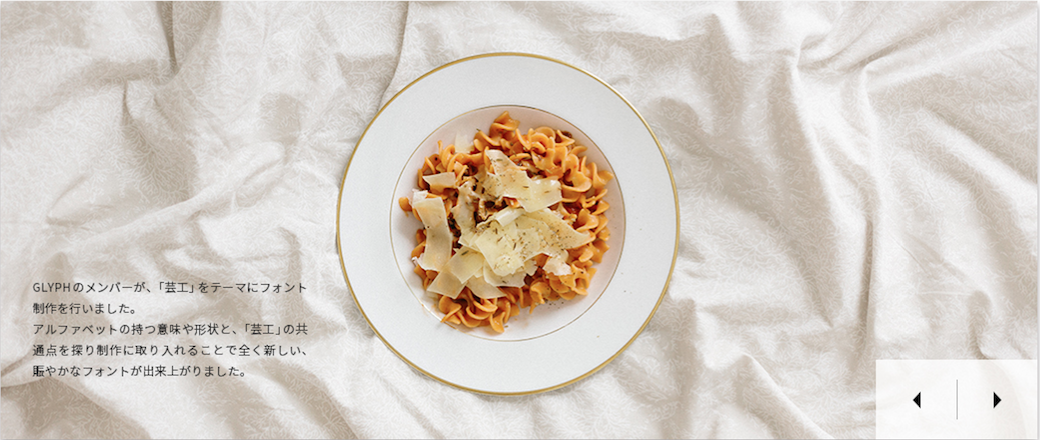
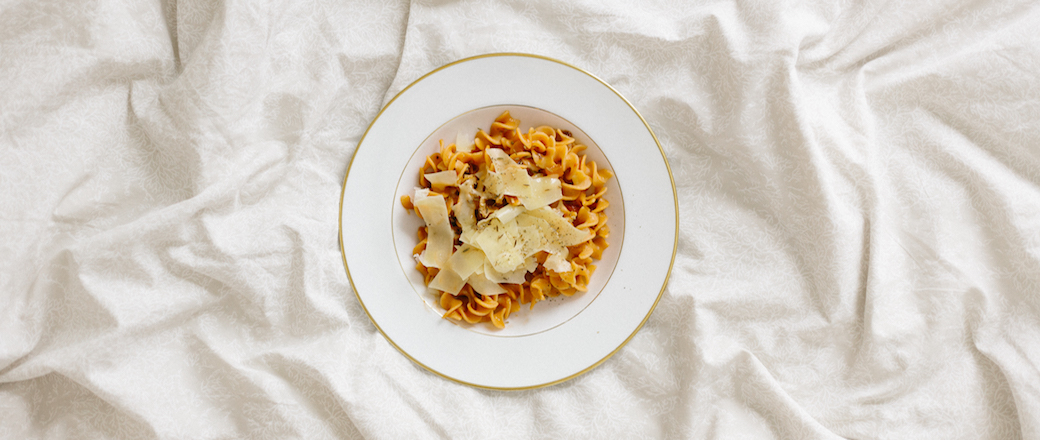
swiperできた

diff --git a/app/source/scss/_common.scss b/app/source/scss/_common.scss
@@ -8,7 +8,7 @@ header {
 	padding: 26px 0;
 	h1 {
 		img {
-			width: 200px;
+			width: 180px;
 			height: auto;
 		}
 	}
@@ -19,7 +19,7 @@ header {
 		li {
 			display: inline-block;
 			padding: 0 0 0 20px;
-			font-size: 0.9em;
+			font-size: 0.85em;
 			letter-spacing: 0.08em;
 		}
 		li + li {
@@ -30,18 +30,51 @@ header {
 }
 
 #contents {
-	.work-list {
-		margin: 10px 0 0;
-		font-size: 0.80em;
-		letter-spacing: 0.08em;
-		li {
-			display: inline-block;
-			width: 252px;
-			margin: 0 0 10px 0;
-			color: rgb(153,153,153);
-			a {
-				color: rgb(153,153,153);
-			}
+	.swiper-slide {
+		position: relative;
+		.swiper-ttl {
+			position: absolute;
+			top: 32%;
+			left: 40px;
+			color: #000;
+			font-size: 2.1em;
+			font-weight: bold;
+			letter-spacing: 0.1em;
+		}
+		.swiper-name {
+			position: absolute;
+			top: 40%;
+			left: 40px;
+			color: #000;
+			font-size: 0.9em;
+		}
+		.swiper-comment {
+			position: absolute;
+			left: 40px;
+			bottom: 50px;
+			width: 280px;
+			color: #000;
+			font-size: 0.8em;
+			line-height: 1.6em;
+			letter-spacing: 0.1em;
 		}
 	}
+	.swiper-pagination {
+		font-size: 0.88em;
+		letter-spacing: 0.1em;
+	}
+	// .work-list {
+	// 	margin: 10px 0 0;
+	// 	font-size: 0.80em;
+	// 	letter-spacing: 0.08em;
+	// 	li {
+	// 		display: inline-block;
+	// 		width: 252px;
+	// 		margin: 0 0 10px 0;
+	// 		color: rgb(153,153,153);
+	// 		a {
+	// 			color: rgb(153,153,153);
+	// 		}
+	// 	}
+	// }
 }

diff --git a/app/source/scss/_setting.scss b/app/source/scss/_setting.scss
@@ -3,7 +3,7 @@ $font-smoothing: antialiased;
 //auto,optimizeSpeed,optimizeLegibility,geometricPrecision
 $text-rendering: auto;
 $base-font-size: 15px;
-$base-font-family: 'Questrial', 'ヒラギノ角ゴ ProN W3', 'Hiragino Kaku Gothic ProN', 'メイリオ', 'Meiryo', 'Arial' sans-serif;
+$base-font-family: 'Questrial', 'ヒラギノ角ゴ ProN W3', 'Hiragino Kaku Gothic ProN', 'メイリオ', 'Meiryo', sans-serif;
 $base-font-color: #555;
 $base-background-color: #fff;
 
